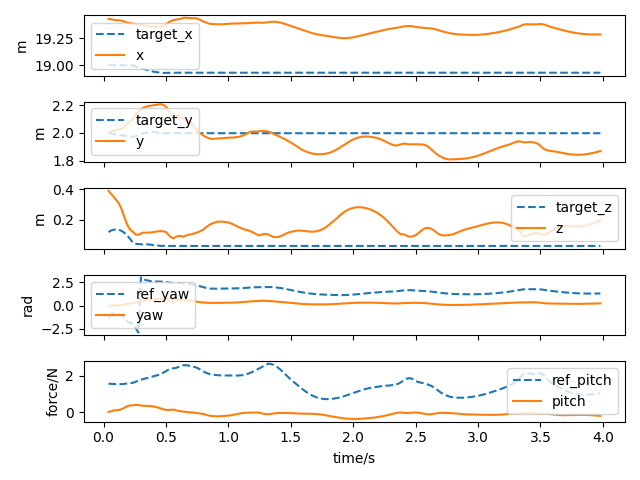
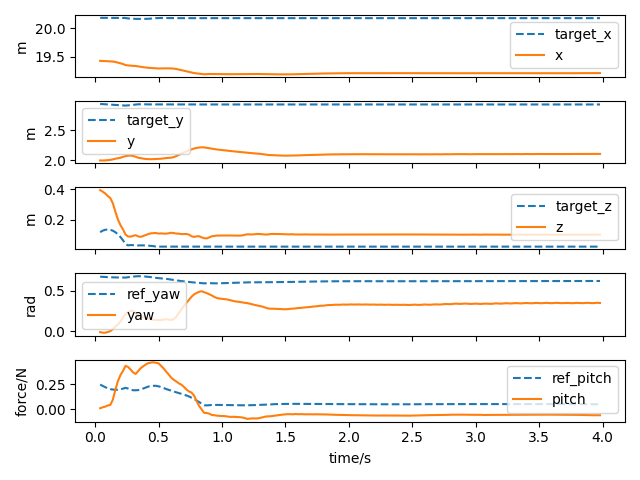
fix resample bug

diff --git a/legged_gym/legged_gym/envs/go1g/go1gbox.py b/legged_gym/legged_gym/envs/go1g/go1gbox.py
@@ -669,10 +669,10 @@ class Go1GB(BaseTask):
         Args:
             env_ids (List[int]): Environments ids for which new commands are needed
         """
-        # self.commands[env_ids, 0] = torch_rand_float(self.command_ranges["target_x"][0], self.command_ranges["target_x"][1], (len(env_ids), 1), device=self.device).squeeze(1)
-        # self.commands[env_ids, 1] = torch_rand_float(self.command_ranges["target_y"][0], self.command_ranges["target_y"][1], (len(env_ids), 1), device=self.device).squeeze(1)
-        # self.commands[env_ids, 2] = torch_rand_float(self.command_ranges["target_z"][0], self.command_ranges["target_z"][1], (len(env_ids), 1), device=self.device).squeeze(1)
-        # self.commands[env_ids, 3] = torch_rand_float(-1, 1,(len(env_ids), 1), device=self.device).squeeze(1)
+        self.commands[env_ids, 0] = torch_rand_float(self.command_ranges["target_x"][0], self.command_ranges["target_x"][1], (len(env_ids), 1), device=self.device).squeeze(1)
+        self.commands[env_ids, 1] = torch_rand_float(self.command_ranges["target_y"][0], self.command_ranges["target_y"][1], (len(env_ids), 1), device=self.device).squeeze(1)
+        self.commands[env_ids, 2] = torch_rand_float(self.command_ranges["target_z"][0], self.command_ranges["target_z"][1], (len(env_ids), 1), device=self.device).squeeze(1)
+        self.commands[env_ids, 3] = torch_rand_float(-1, 1,(len(env_ids), 1), device=self.device).squeeze(1)
 
         # reset target position
         self.box_states[env_ids, :2] = self.commands[env_ids,:2] + self.env_origins[env_ids,:2]

diff --git a/legged_gym/legged_gym/envs/go1g/go1gb_config.py b/legged_gym/legged_gym/envs/go1g/go1gb_config.py
@@ -192,6 +192,11 @@ class Go1GBRoughCfg( LeggedRobotCfg ):
             lin_vel_y = [-0.5, 0.5]   # min max [m/s]
             yaw = [-1, 1]    # min max [rad]
             pitch = [-0.7, 0.7]  # min max [rad]
+            
+            target_x = [1, 2] # min max [m]
+            target_y = [-1, 1]   # min max [m]
+            target_z = [0, 0.6]    # min max [m]  higher
+            
         lin_vel_clip = 0.2
         ang_clip = 0.05
         vx_max = 0.5
